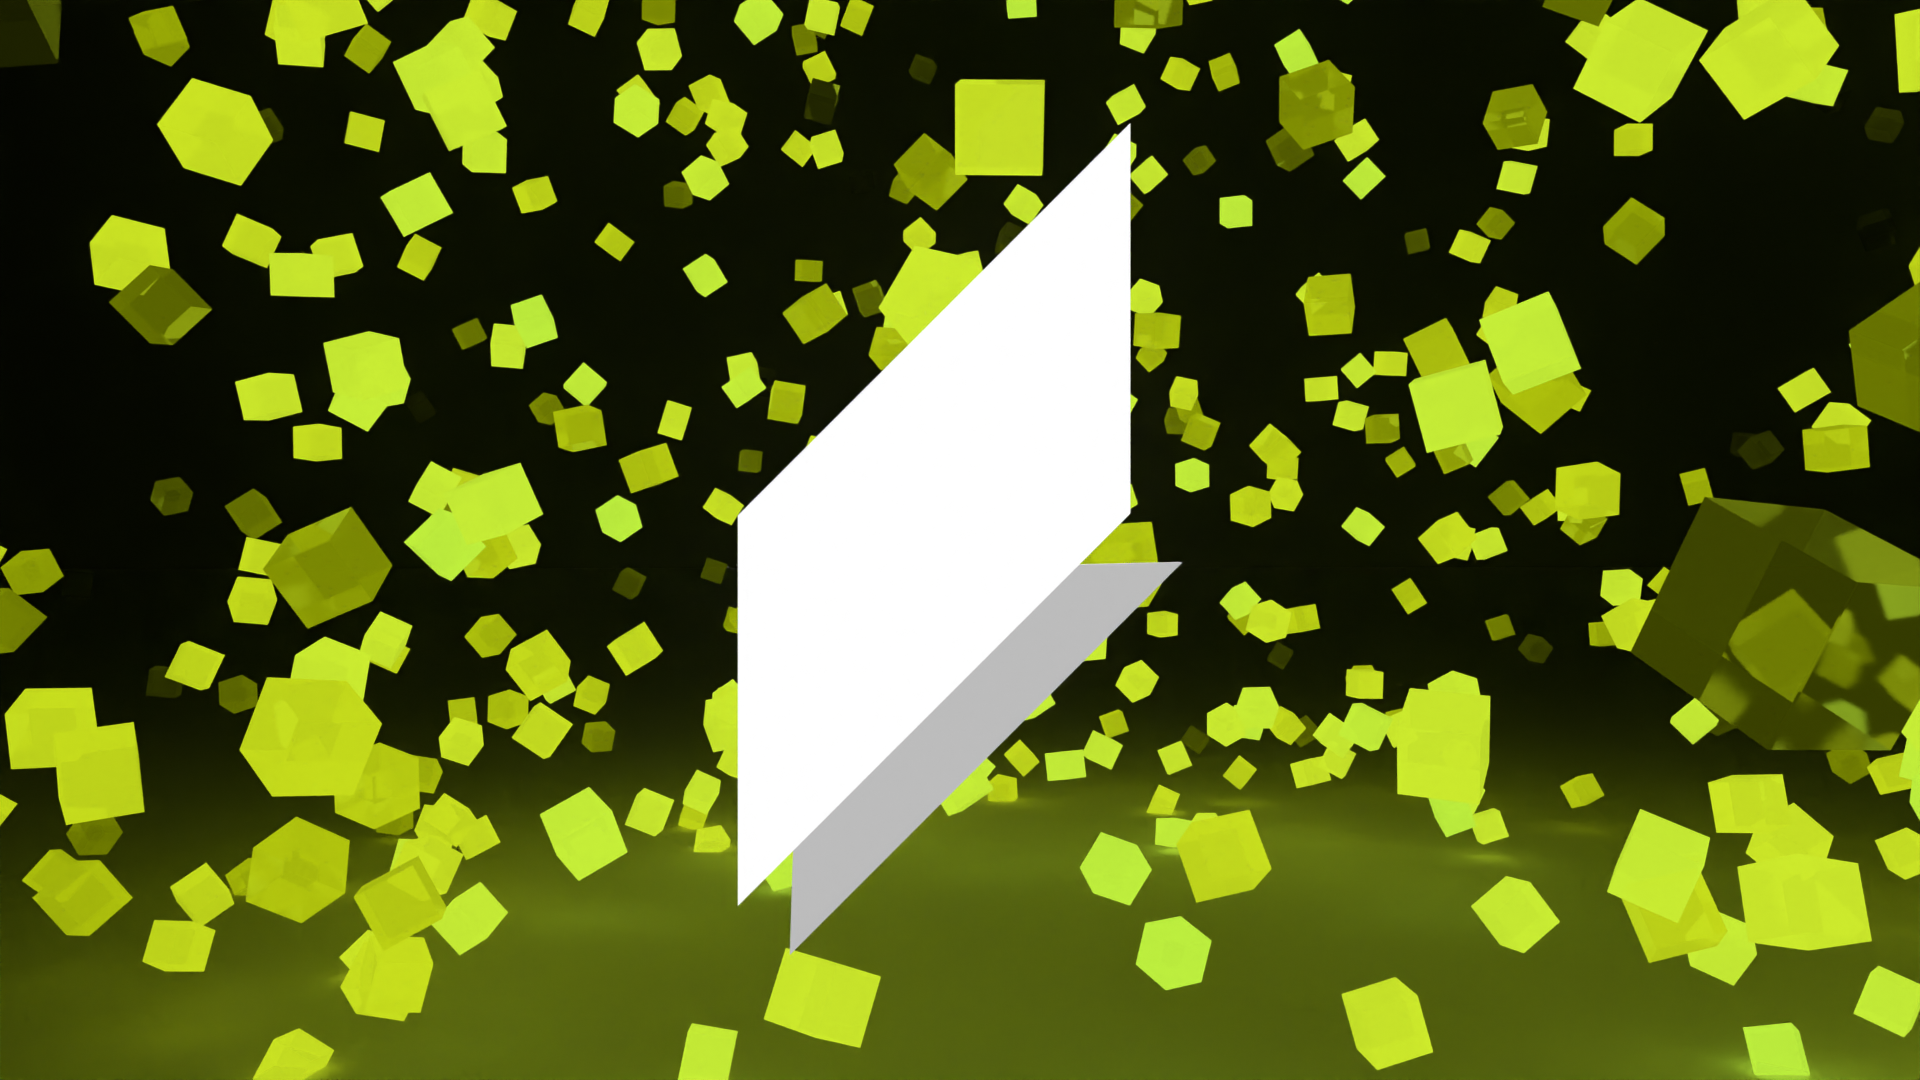
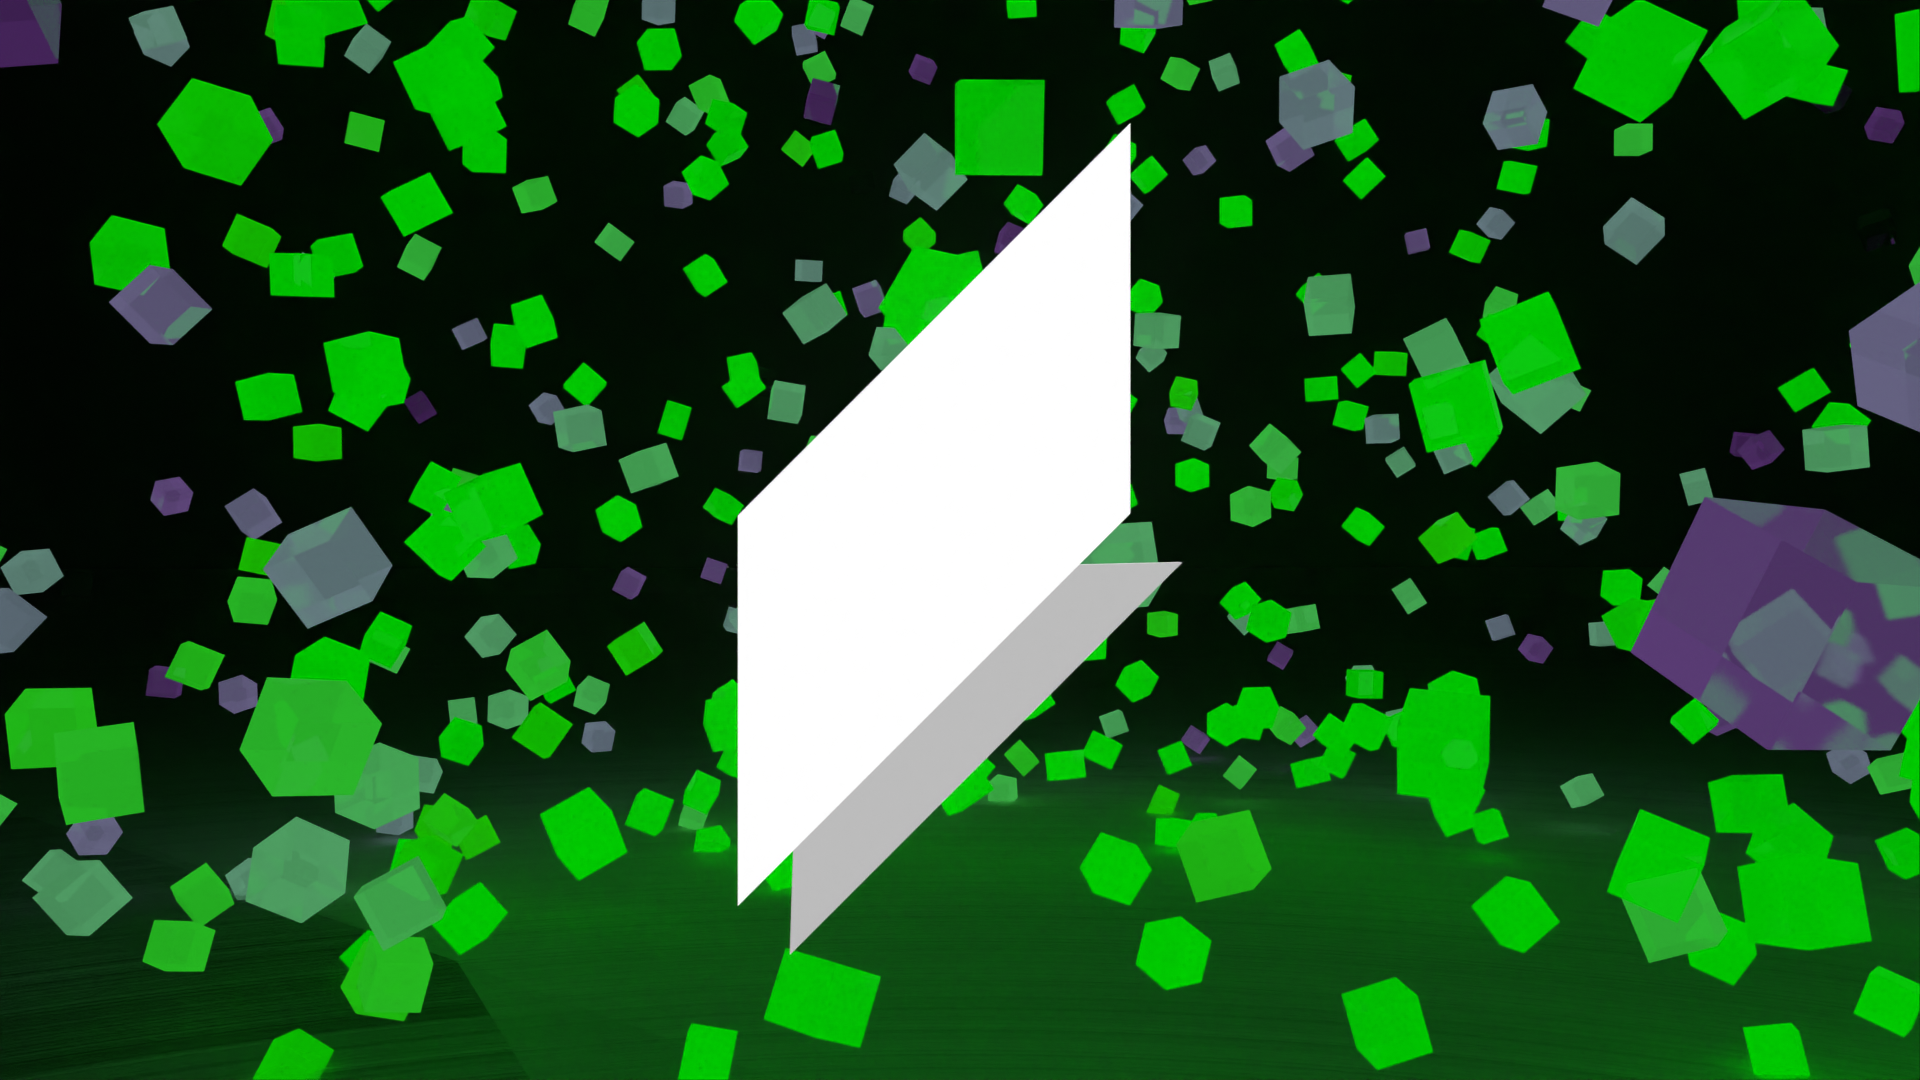
update theme

diff --git a/blog/original-society-multiversal.html b/blog/original-society-multiversal.html
@@ -1,0 +1,53 @@
+<!DOCTYPE html>
+<html>
+	<head>
+		<meta name="viewport" content="width=device-width, initial-scale=1">
+
+		<link rel="stylesheet" href="b-style.css"></link>
+
+        <link rel="preconnect" href="https://fonts.googleapis.com">
+        <link rel="preconnect" href="https://fonts.gstatic.com" crossorigin>
+        <link rel="stylesheet" href="https://fonts.googleapis.com/css2?family=Archivo:wght@500&display=swap">
+
+        <title>Paroxysm Blog | Original Society - Multiversal Monkeys</title>
+	</head>
+	<body>
+        
+        <div class="main">
+            <div class="nav">
+                <ul class="nav-list">
+                    <li><a href="../index.html"><img src="../images/paroB.png" height="49px"/></a></li>
+                    <li><a href="music">Music</a></li>
+                    <li><a href="artists">Artists</a></li>
+                    <li><a href="blog">Blog</a></li>
+                    <li><a href="shop">Shop</a></li>
+                </ul>
+            </div>
+	    	<h1>Paroxysm Recordings: Blog</h1>
+    		<div class="slideshow-container">
+    			<img src="../images/monkeyRiddimOs.png" style="width:100%">
+				<div class="caption"><h1>Original Society's Multiversal Monkeys</h1><h4>From an April Fools joke to a rave slapper</h4></div>
+		    </div>
+            <p style="text-indent: 25px;">
+                Multiversal Monkeys started as an amusing joke but quickly became more destructive. Multiversal Monkeys had evolved overnight into what it is now. It is a powerful piece of music portraying monkeys that gather to party in their own universe, but the wild energy cannot be contained; this leads to a wave of mass destruction heading toward every galaxy.<br/><br/>
+            </p>
+            <p style="text-indent: 25px;">
+                The production of Multiversal Monkeys felt unusually effortless. I had visions of an alternate reality where the world was at the mercy of monkeys. I captured everything I saw in this song. This song's nature now reflects the monkeys' characteristics: loud, wild, and out of control. Surprisingly, they still have a rhythm. The drum beat mixes riddim and house, with the clap often changing to a snare.<br/><br/>
+            </p>
+            <p style="text-indent: 25px;">
+                The story is told from the perspective of a mysterious man observing the destruction of the monkeys from a distance (and has been for quite a while) as you are watching the chaos unleash right in front of you. You are in trouble as the unknown man tells you that nothing is certain (meaning he is unsure if you can escape alive). As the man says this, he appears to appreciate the chaos, as if it's a work of art.<br/><br/>
+            </p>
+            <p style="text-indent: 25px;">
+                It is entirely possible that watching the monkeys go insane has placed a seed of madness inside of him, and by listening to Multiversal Monkeys, the same could happen to you.
+                <br/><br/>
+            </p>
+            <p style="font-size: 16px;">
+                Written by <a href="https://www.instagram.com/originalsociety.mp3/">@originalsociety.mp3</a>
+            </p>
+            <h3>Listen to the release below!</h3>
+            <iframe width="100%" height="563px" src="https://www.youtube.com/embed/XoQhwck-fq8?si=kisNldTQXlTEYSYu" title="YouTube video player" frameborder="0" allow="accelerometer; autoplay; clipboard-write; encrypted-media; gyroscope; picture-in-picture; web-share" allowfullscreen></iframe>
+
+            <h2 style="padding-bottom: 100px; margin-bottom: 0px;"><a height="50px" href="https://kycker.ffm.to/multiversalmonkeys" target="_blank" rel="noopener noreferrer">Click here to save on your preferred streaming service.<br/></a></h2>
+        </div>
+	</body>
+</html>

diff --git a/blog/b-style.css b/blog/b-style.css
@@ -3,27 +3,27 @@
     display: block;
     margin-left: auto;
     margin-right: auto;
-    background-color: rgb(17,17,17);
+    background-color: #F5F5F5;
 }
 body {
-    background-color: rgb(10,10,10);
+    background-color: #C7C7C7;
 }
 a {
-    color: lightsalmon;
+    color: #57D657;
 }
 h1,h2,h3,p {
-    color: white;
+    color: black;
     padding-left: 10px;
 }
 p {
-    color: white;
+    color: black;
     padding-left: 10px;
     padding-right: 10px;
     font-size: 20px;
 }
 h4 {
   padding-left: 10px;
-  color: lightsalmon;
+  color: #57D657;
 }
 * {box-sizing: border-box}
 body {font-family: Verdana, sans-serif; margin:0}
@@ -34,33 +34,6 @@ img {vertical-align: middle;}
 .slideshow-container {
   position: relative;
   margin: auto;
-}
-
-/* Next & previous buttons */
-.prev, .next {
-  cursor: pointer;
-  position: absolute;
-  top: 50%;
-  width: auto;
-  padding: 16px;
-  margin-top: -22px;
-  color: white;
-  font-weight: bold;
-  font-size: 18px;
-  transition: 0.6s ease;
-  border-radius: 0 3px 3px 0;
-  user-select: none;
-}
-
-/* Position the "next button" to the right */
-.next {
-  right: 0;
-  border-radius: 3px 0 0 3px;
-}
-
-/* On hover, add a black background color with a little bit see-through */
-.prev:hover, .next:hover {
-  background-color: rgba(255, 160, 122, 0.5);
 }
 
 /* Caption text */
@@ -77,59 +50,12 @@ img {vertical-align: middle;}
   background: linear-gradient(to bottom, rgba(0,0,0,0) 0%, rgba(0,0,0,0.6) 50%, rgba(0,0,0,0.9) 100%);
 }
 
-/* Number text (1/3 etc) */
-.numbertext {
-  color: #f2f2f2;
-  font-size: 12px;
-  padding: 8px 12px;
-  position: absolute;
-  top: 7px;
-  left: 7px;
-  background-color: rgba(0,0,0,0.5);
-  border-radius: 20%;
-}
-
-/* The dots/bullets/indicators */
-.dot {
-  cursor: pointer;
-  height: 15px;
-  width: 15px;
-  margin: 0 2px;
-  background-color: #888;
-  border-radius: 50%;
-  display: inline-block;
-  transition: background-color 0.6s ease;
-}
-
-.active {
-  background-color: white;
-}
-.dot:hover {
-    background-color: lightsalmon;
-  }
-
-/* Fading animation */
-.fade {
-  animation-name: fade;
-  animation-duration: 1.5s;
-}
-
-@keyframes fade {
-  from {opacity: .4} 
-  to {opacity: 1}
-}
-
-/* On smaller screens, decrease text size */
-@media only screen and (max-width: 300px) {
-  .prev, .next,.text {font-size: 11px}
-}
-
 .nav-list {
     list-style-type: none;
     margin: 0;
     padding: 0;
     overflow: hidden;
-    background-color: rgb(3,3,3);
+    background-color: #A1E8A1;
 }
 
 .nav-list li {
@@ -140,7 +66,7 @@ img {vertical-align: middle;}
 
 .nav-list li a {
     display: block;
-    color: #ffffff;
+    color: black;
     text-align: center;
     padding: 14px 16px;
     text-decoration: none;
@@ -148,7 +74,7 @@ img {vertical-align: middle;}
 }
 
 .nav-list li a:hover {
-    background-color: lightsalmon;
+    background-color: #32CD32;
     opacity: 80%;
     transition: 0.3s;
 }

diff --git a/h-style.css b/h-style.css
@@ -4,16 +4,16 @@
   display: block;
   margin-left: auto;
   margin-right: auto;
-  background-color: rgb(17,17,17);
+  background-color: #F5F5F5;
 }
 body {
-  background-color: rgb(10,10,10);
+  background-color: #C7C7C7;
 }
 a {
-  color: lightsalmon;
+  color: #57D657;
 }
 h1,h2,h3,h4 {
-  color: white;
+  color: black;
   padding-left: 10px;
 }
 * {box-sizing: border-box}
@@ -35,7 +35,7 @@ img {vertical-align: middle;}
   width: auto;
   padding: 16px;
   margin-top: -22px;
-  color: white;
+  color: black;
   font-weight: bold;
   font-size: 18px;
   transition: 0.6s ease;
@@ -51,12 +51,12 @@ img {vertical-align: middle;}
 
 /* On hover, add a black background color with a little bit see-through */
 .prev:hover, .next:hover {
-  background-color: rgba(255, 160, 122, 0.5);
+  background-color: #32CD32;
 }
 
 /* Caption text */
 .caption {
-  color: #f2f2f2;
+  color: white;
   font-size: 15px;
   padding: 8px 12px;
   position: absolute;
@@ -93,10 +93,10 @@ img {vertical-align: middle;}
 }
 
 .active {
-  background-color: white;
+  background-color: #F182FF;
 }
 .dot:hover {
-    background-color: lightsalmon;
+    background-color: #175E17;
   }
 
 /* Fading animation */
@@ -120,7 +120,7 @@ img {vertical-align: middle;}
     margin: 0;
     padding: 0;
     overflow: hidden;
-    background-color: rgb(3,3,3);
+    background-color: #A1E8A1;
 }
 
 .nav-list li {
@@ -131,7 +131,7 @@ img {vertical-align: middle;}
 
 .nav-list li a {
     display: block;
-    color: #ffffff;
+    color: black;
     text-align: center;
     padding: 14px 16px;
     text-decoration: none;
@@ -139,7 +139,7 @@ img {vertical-align: middle;}
 }
 
 .nav-list li a:hover {
-    background-color: lightsalmon;
+    background-color: #32CD32;
     opacity: 80%;
     transition: 0.3s;
 }

diff --git a/index.html b/index.html
@@ -8,6 +8,7 @@
         <link rel="preconnect" href="https://fonts.googleapis.com">
         <link rel="preconnect" href="https://fonts.gstatic.com" crossorigin>
         <link rel="stylesheet" href="https://fonts.googleapis.com/css2?family=Archivo:wght@500&display=swap">
+        <link rel="icon" type="image/x-icon" href="/images/favicon.ico">
 
         <title>Paroxysm | Back to Earth and Beyond.</title>
 	</head>
@@ -16,7 +17,7 @@
         <div class="main">
             <div class="nav">
                 <ul class="nav-list">
-                    <li><img src="images/favicon.png" height="49px"/></li>
+                    <li><img src="images/paroB.png" height="49px"/></li>
                     <li><a href="music">Music</a></li>
                     <li><a href="artists/index.html">Artists</a></li>
                     <li><a href="blog/index.html">Blog</a></li>
